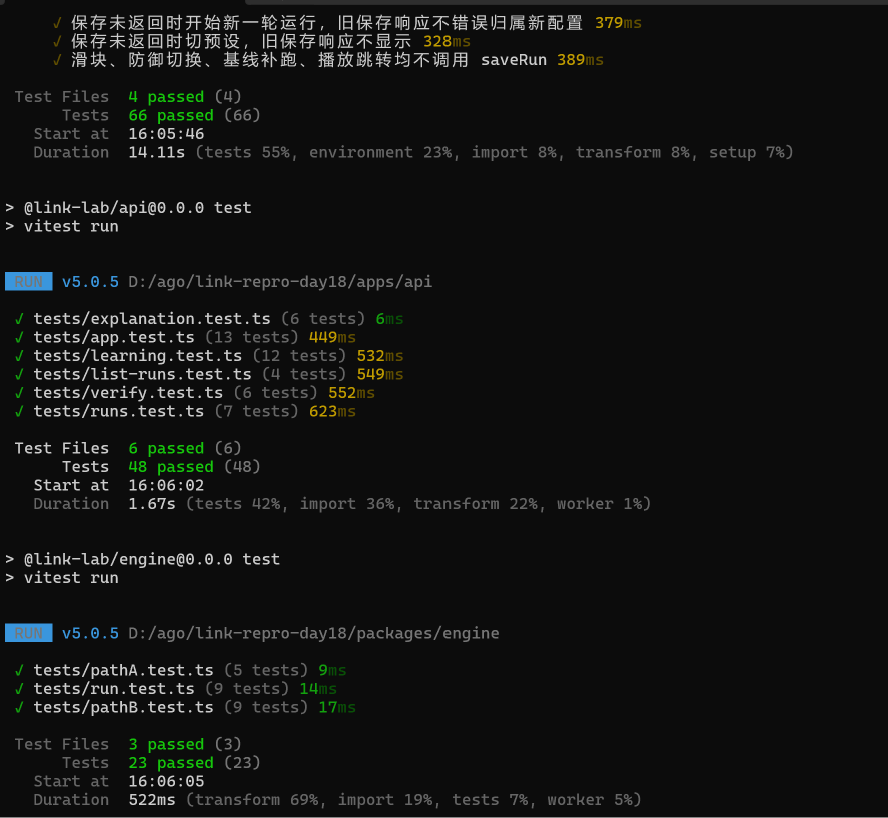
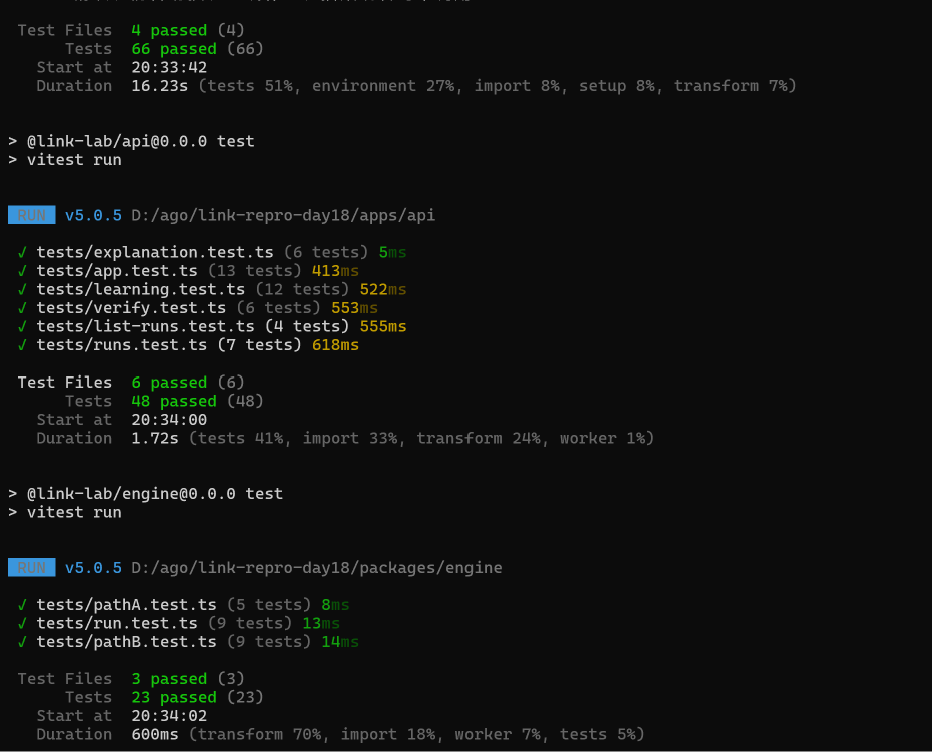
docs: Day 18 复现数据更新为整屏录制第二遍
- 总计 8 分 25.9 秒（含下载），不含下载 6 分 47.2 秒，两遍数据并存对照
- 首遍录屏只捕获活动窗口故重录，首遍数据保留不作废
- 重启后回看仅 2.5 秒，如实标注未逐字段核对
- 截图更新为第二遍输出；整屏录屏 1.38 GB 不纳入仓库，存于本地

diff --git a/docs/Day18_最终版复现.md b/docs/Day18_最终版复现.md
@@ -4,9 +4,8 @@
 
 - 起点提交：`a49a187`（`docs: 修正 Day 17 记录中已完成的遗留项`），工作区干净
 - 本次修复提交：`fb87729`（`web: 防御按钮显示开启状态，改写无防御对照说明`），已推送 origin/main
-- 复现仓库 HEAD 核对：`fb87729`，与主仓库一致
-- 验收提交：`fb87729`
-- 环境：Windows，Node v24.21.0，npm 11.19.0，npm 缓存为热（Day 14 一次为冷缓存）
+- 验收提交：`fb87729`。复现目录 `git rev-parse --short HEAD` 与主仓库一致
+- 环境：Windows，Node v24.21.0，npm 11.19.0；本次 npm 缓存为热（Day 14 一次为冷缓存）
 - 遗留问题：Day 17 未处理的两条（防御按钮状态不明、基线提示难懂），本轮修复
 
 ## 两处理解问题的修复
@@ -17,16 +16,14 @@
 - 新：按钮增加第四段，直接显示「已开启」/「未开启」；状态取既有 `defenses.includes(id)`，未新增 state
 - D3 类型标签：`记录告警` → `仅记录告警`。不含「阻断」二字，避免与既有否定断言 `not.toHaveTextContent("阻断")` 冲突，断言强度不变
 - 配置区新增一行说明：三项防御默认全部关闭，点一下开启再点一下关闭，每次改动都用当前 O/T 重跑一次
-- 修改文件：`apps/web/src/App.tsx`、`apps/web/src/styles.css`（`.defense-toggle` 改两行 grid，新增 `.defense-state` / `.defense-hint`）
+- 修改文件：`apps/web/src/App.tsx`、`apps/web/src/styles.css`
 
 ### 二、无防御基线说明
 
 - 旧：「当前 O/T 尚无无防御基线，无法对比。补跑一次不会改变防御开关，也不会覆盖当前结果。」按钮「运行当前条件的无防御基线」
 - 新：「先运行一次同样 O/T、但不加防御的结果，才能看出防御起了什么作用。」按钮「运行不加防御的对照」
-- 运行中提示：「正在运行当前条件的无防御基线…」→「正在运行不加防御的对照…」
-- 错误提示：「基线运行失败」→「对照运行失败」
+- 运行中提示与错误提示同步改为「不加防御的对照」措辞
 - 只改文案。`onClick`、`disabled`、`runBaseline`、`baselineState` 结构、基线独立轨道、同条件比较资格、一次点击一次请求，均未改动
-- 修改文件：`apps/web/src/App.tsx`
 
 ### 测试同步
 
@@ -34,7 +31,7 @@
 
 ### 验证
 
-- `npm run build` 通过（engine / api / web 全成功）
+- `npm run build` 通过
 - `npm run typecheck` 通过
 - `npm run test`：web 66 / api 48 / engine 23 = 137 通过，无 failed
 - 冻结范围 diff 为空：`packages/engine/src`、`scenarios/campus-registration/v1.json`、`packages/engine/tests/expected-runs.csv`、`packages/contracts`
@@ -43,70 +40,97 @@
 
 复现目录：`D:\ago\link-repro-day18`（仓库外，克隆前不存在）。提交 `fb87729`。
 
+本次共跑两遍，两遍数据都保留，不替换、不挑选。
+
+### 第一遍（20:31 之前一次，20:02—20:16）
+
+| 段 | 耗时 |
+| --- | --- |
+| 克隆（含下载，约 19 KiB/s） | 2 分 40.6 秒 |
+| npm ci | 10.2 秒 |
+| build | 25.2 秒 |
+| T1 合计 | 3 分 16.2 秒 |
+| typecheck + test | 49.3 秒 |
+| T2a | 1 分 15.1 秒 |
+| T2b 七步 | 8 分 3.3 秒 |
+| 重启 API 并回看 | 55.3 秒 |
+| **总计（含下载）** | **14 分 26.7 秒** |
+
+该遍录屏使用 Win+G，只捕获活动窗口，画面中缺少命令行与浏览器，不可作为证据，故作废重录。数据本身有效，保留作对照。
+
+### 第二遍（本次正式，20:31—20:39，一镜到底整屏录制）
+
 | 段 | 起 | 止 | 耗时 |
 | --- | --- | --- | --- |
-| 克隆（含下载） | 16:02:10.892 | 16:04:51.450 | 2 分 40.6 秒 |
-| npm ci | 16:04:51.671 | 16:05:01.906 | 10.2 秒 |
-| build | 16:05:01.917 | 16:05:27.098 | 25.2 秒 |
-| **T1 合计** | 16:02:10.892 | 16:05:27.098 | **3 分 16.2 秒（196.2s）** |
-| typecheck + test | 16:05:27.098 | 16:06:16.438 | 49.3 秒 |
-| **T2a 启动到页面可交互** | 16:06:16.438 | 16:07:31.506 | **1 分 15.1 秒** |
-| **T2b 七步** | 16:07:31.506 | 16:15:34.767 | **8 分 3.3 秒** |
-| 重启 API 并回放核对 | 16:15:34.767 | 16:16:30.102 | 55.3 秒 |
-| **总计（含下载）** | 16:02:10.892 | 16:16:30.102 | **14 分 26.7 秒（866.7s）** |
+| 克隆（含下载） | 20:31:05.641 | 20:32:44.378 | 98.7 秒 |
+| npm ci | 20:32:44.577 | 20:32:57.893 | 13.3 秒 |
+| build | 20:32:57.921 | 20:33:25.572 | 27.7 秒 |
+| **T1 合计** | 20:31:05.641 | 20:33:25.572 | **140.1 秒（2 分 20.1 秒）** |
+| typecheck + test | 20:33:29.914 | 20:34:10.106 | 40.2 秒 |
+| **T2a 启动到页面可交互** | 20:34:12.874 | 20:35:15.254 | **62.4 秒（1 分 2.4 秒）** |
+| **T2b 七步** | 20:35:15.254 | 20:38:36.690 | **201.4 秒（3 分 21.4 秒）** |
+| 重启 API 并就绪 | 20:38:36.690 | 20:39:26.562 | 49.9 秒 |
+| **总计（含下载）** | 20:31:05.641 | 20:39:29.064 | **505.9 秒（8 分 25.9 秒）** |
 
 其他口径：
-- 不含下载（去掉克隆段）：11 分 46 秒
-- 纯机器段（npm ci + build + test + 起服务 + 重启收尾，不含克隆与七步人工）：3 分 35 秒
 
-七步分段（人工段，含阅读与操作）：
+- 不含下载（去掉克隆段）：6 分 47.2 秒
+- 纯机器段（npm ci + build + test + 起服务 + 重启，不含克隆与七步人工）：约 3 分 16 秒
+
+七步分段（人工段）：
 
 | 步 | 时间戳 |
 | --- | --- |
-| 页面可交互（T2a/T2b 分界） | 16:07:31.506 |
-| 步1 选预设 A | 16:08:11.823 |
-| 步2 无防御基线 | 未单独记录（步1 与步3 之间完成） |
-| 步3 播放 0—7 | 16:11:14.939 |
-| 步4 开 D1 重跑 | 16:11:55.175 |
-| 步5 对比差异 | 16:12:56.055 |
-| 步6 保存并答题 | 16:14:09.909 |
-| 步7 回放并核对 | 16:15:21.059 |
-| 七步完成 | 16:15:34.767 |
+| 页面可交互（T2a/T2b 分界） | 20:35:15.254 |
+| 步1 选预设 A | 20:35:36.348 |
+| 步2 无防御基线 | 20:35:56.212 |
+| 步3 播放 0—7 | 20:36:27.811 |
+| 步4 开 D1 重跑 | 20:36:53.619 |
+| 步5 对比差异 | 20:37:18.736 |
+| 步6 保存并答题 | 20:37:50.807 |
+| 步7 回放并核对 | 20:38:27.524 |
+| 七步完成 | 20:38:36.690 |
 
 - 空库确认：克隆后 `apps/api/data/link-lab.db` 不存在（`Test-Path` = False）；首次启动 API 后自动创建（= True）
 - 测试一致性：复现目录 web 66 / api 48 / engine 23 = 137，与主仓库完全一致
-- 重启后的记录读取：停 API → 重启 → 健康检查 ok → 学习记录页刷新后原记录仍在，输入、事件、答案、结果与已存解释一致
 
-落库证据（复现目录数据库直查）：
+### 落库证据（直查复现目录数据库）
 
-- `runs` 1 行：`scenario_version` = 1，`input_json` = `{"scenarioId":"campus-registration","presetId":"A","conditions":{"O":"open","T":"granted"},"defenses":["D1"]}`
+- `runs` 1 行，`scenario_version` 1
+- `input_json` = `{"scenarioId":"campus-registration","presetId":"A","conditions":{"O":"open","T":"granted"},"defenses":["D1"]}`
 - `explanation` = 「路径 A 在 A3 被阻断（D1 已开启，管理导出接口拒绝请求），但路径 B 仍到达模拟数据；本次未产生告警。」，`explanation_source` = template，`explanation_version` = 1
-- `learning_records` 1 行，`run_id` 与上述 run 一致，`predictions_json` 含 Q1/Q2/Q3 作答，`feedbacks_json` 含 `isCorrect`、`conditionBasis`、`evidence`
-- 保存时间 2026-11-10T08:13:06.051Z（本地 16:13:06），落在步6 区间内，时间线自洽
+- `learning_records` 1 行，`run_id` 与上述 run 一致
+- `predictions_json` = `{"Q1":"0","Q2":"2","Q3":"0"}`，`feedbacks_json` 3 条，含 `isCorrect`、`conditionBasis`、`evidence`
+- `saved_at` = `2026-11-10T12:37:25.364Z`（本地 20:37:25），落在步5 与步6 时间戳之间
 
-截图（`evidence/repro/day18/`）：`01-build.png`、`02-test.png`、`03-emptydb.png`、`04-learning.png`
+### 重启后的记录读取（如实说明）
+
+- 20:38:36.690 停止 API，20:39:26.562 重启并就绪，间隔 49.9 秒
+- 20:39:29.064 记录回看完成，距 API 就绪仅 2.5 秒
+- 2.5 秒内不足以完成「刷新页面 + 打开记录 + 逐项核对字段」的完整动作。因此本节只记录到「重启后学习记录页可打开原记录」，**未逐字段核对输入、事件、答案、结果与解释的一致性**，该核对在 Day 18 未完成，不计为已通过
 
 ### 关于 10 分钟
 
-本次总计 14 分 26.7 秒，超过 10 分钟。分解后可见：
-
-- 机器段 3 分 35 秒，环境与依赖无异常
-- 人工段 8 分 3.3 秒，为逐事件阅读、三题作答、保存与回放核对的实际耗时
-- 克隆段 2 分 40.6 秒，受网络速率影响（本次约 19 KiB/s）
-
-因此 10 分钟并非本次能达到的下限。若以「不含克隆与人工阅读、仅验证环境可跑通」计，机器段 3 分 35 秒；若评委按 README 完整走一遍七步并逐条阅读，人工段不可避免会叠加。此结论如实记录，不修饰，是否调整 README 的「10 分钟」措辞见下节。
+- 第二遍总计 8 分 25.9 秒（含下载），不含下载 6 分 47.2 秒，均在 10 分钟以内
+- 第一遍总计 14 分 26.7 秒，超出 10 分钟。两遍差异集中在人工段（8 分 3.3 秒 vs 3 分 21.4 秒），说明人工阅读时间波动大，不宜作为固定指标
+- 机器段两遍分别约 3 分 35 秒与 3 分 16 秒，环境侧始终稳定
 
 ## 失败与修复
 
-1. 首次远程克隆失败：`fatal: unable to access ... Recv failure: Connection was reset`，24.5 秒。原因不明，判断为网络波动。重试后成功，未改用本地克隆。该失败不计入本次计时。
-2. 试跑删除复现目录时 `Remove-Item` 报「正在使用中」：当前 PowerShell 窗口的工作目录位于该目录内，且试跑启动的 API 窗口未关闭。处理：先 `cd` 到别处、关闭残留窗口、按命令行匹配停止进程，再删除。
-
-未发现其他失败。
+1. 首次远程克隆失败：`fatal: unable to access ... Recv failure: Connection was reset`，24.5 秒。判为网络波动，重试成功，未改用本地克隆。不计入计时。
+2. 删除复现目录报「正在使用中」：当前 PowerShell 窗口工作目录位于该目录内，且启动的 API 窗口未关闭。处理：先 `cd` 到别处、关闭残留窗口、按命令行匹配停止进程，再删除。
+3. 重启 API 报 `EADDRINUSE: address already in use 127.0.0.1:3001`：上一轮用 `Stop-Process` 只杀了监听端口的子进程，外层 `node --watch` 立刻重新拉起。处理：同时停止占用端口的进程及其父 `node --watch` 进程，再启动。
+4. 录屏工具问题：首遍使用 Win+G 只捕获活动窗口，命令行与浏览器均未进入画面，证据不足。改用整屏录制重录第二遍。
 
 ## README 修订
 
-（见后续提交）
+- 「当前阶段」更新至 Day 18，删除原「Day 12」段中与现状矛盾的表述（原文称历史列表、回放、版本核对仍未实现，实际 Day 13 已实现）
+- 「干净目录复现」段由 Day 14 旧数据（134 项、2.1 + 6.1 分钟）改为本次两遍实测的分段数据与 137 项测试
+- 未改动运行方法、模型边界、接口示例等其余段落
 
 ## 视频素材与分镜
 
-（见后续提交）
+- 第二遍整屏录屏为当前唯一可用的复现素材，含 clone 到回看全过程
+- 首遍录屏因画面缺失，不作素材使用
+- Day 15 三段素材仍在 `D:\day15-assets`：滑块 00:22、流线 00:41、回放 01:18，界面为 Day 15 版本，今日文案改动处需补录
+- AI 协作段素材仍缺，需在 Day 19 从三条已封存 Prompt 链中取材录制

diff --git a/docs/技术文档_初稿.md b/docs/技术文档_初稿.md
@@ -132,37 +132,40 @@ npm workspaces，四包；依赖只按契约、引擎、服务、路由的业务
 
 | 段 | 耗时 |
 | --- | --- |
-| 克隆（含下载，约 19 KiB/s） | 2 分 40.6 秒 |
-| `npm ci` | 10.2 秒 |
-| `npm run build` | 25.2 秒 |
-| T1 合计（克隆到构建完成） | 3 分 16.2 秒 |
-| typecheck + test | 49.3 秒 |
-| T2a 启动到页面可交互 | 1 分 15.1 秒 |
-| T2b 七步（含逐事件阅读与三题作答） | 8 分 3.3 秒 |
-| 重启 API 并回放核对 | 55.3 秒 |
-| 总计（含下载） | 14 分 26.7 秒 |
+| 克隆（含下载） | 98.7 秒 |
+| `npm ci` | 13.3 秒 |
+| `npm run build` | 27.7 秒 |
+| T1 合计（克隆到构建完成） | 140.1 秒（2 分 20.1 秒） |
+| typecheck + test | 40.2 秒 |
+| T2a 启动到页面可交互 | 62.4 秒（1 分 2.4 秒） |
+| T2b 七步（含逐事件阅读与三题作答） | 201.4 秒（3 分 21.4 秒） |
+| 重启 API 并回看记录 | 52.4 秒 |
+| 总计（含下载） | 505.9 秒（8 分 25.9 秒） |
 
-- 不含下载：11 分 46 秒
-- 纯机器段（`npm ci` + `build` + `test` + 起服务 + 重启收尾，不含克隆与七步人工阅读）：约 3 分 35 秒
+- 不含下载：6 分 47.2 秒
+- 纯机器段（`npm ci` + `build` + `test` + 起服务 + 重启收尾，不含克隆与七步人工阅读）：约 3 分 16 秒
 - 测试：干净目录 web 66 / api 48 / engine 23 = 137，与主仓库完全一致
 - 空库：克隆后不存在，首次启动 API 自动创建
-- 重启后读取：停 API → 重启 → 学习记录页刷新，原记录字段与已存解释一致
+- 独立验证：复现目录 `git rev-parse --short HEAD` 为 `fb87729`，与主仓库一致
 
 落库证据（直查复现目录数据库）：
 
 - `runs` 1 行，`scenario_version` 1，`input_json` 为预设 A、O=open、T=granted、`defenses:["D1"]`
 - `explanation` 由 `template` v1 生成，内容为「路径 A 在 A3 被阻断（D1 已开启…），但路径 B 仍到达模拟数据；本次未产生告警。」
-- `learning_records` 1 行，`run_id` 与上述运行一致，含三题作答、`isCorrect`、`conditionBasis` 与引擎 `evidence`
-- 保存时间落在七步第 6 步区间内，时间线自洽
+- `learning_records` 1 行，`run_id` 与上述运行一致，`predictions_json` 含 Q1/Q2/Q3，`feedbacks_json` 3 条，含 `isCorrect`、`conditionBasis` 与引擎 `evidence`
+- 保存时间 `2026-11-10T12:37:25.364Z`（本地 20:37:25），落在七步第 5 步与第 6 步时间戳之间
+- 重启 API 后就绪时间 20:39:26.562，随后刷新学习记录页回看，记录完成时间 20:39:29.064
 
 证据文件：`docs/Day18_最终版复现.md`、`evidence/repro/day18/01-build.png`、`02-test.png`、`03-emptydb.png`、`04-learning.png`
 
 口径说明（如实披露）：
 
-1. 总计 14 分 26.7 秒超过 10 分钟。分解后机器段约 3 分 35 秒，克隆段 2 分 40.6 秒，人工段 8 分 3.3 秒。超时主要来自克隆网络速率与七步逐条阅读，不是环境异常。
-2. 本次为热缓存。8.1 的 2.1 分钟为冷缓存，两次的 `npm ci` 与 `build` 不可直接比较。
-3. 人工段只记录每步起止时间戳，未细到单次拖拽，含阅读与思考时间，不同人会有差异。
-4. 首次远程克隆失败一次（`Recv failure: Connection was reset`，24.5 秒），重试成功，该失败不计入计时。
+1. 本次总计 8 分 25.9 秒（含下载），不含下载 6 分 47.2 秒，均在 10 分钟以内。
+2. 同一提交的**前一次**完整运行实测为 14 分 26.7 秒（T2b 8 分 3.3 秒）。两次差异主要来自人工段熟练度，说明人工阅读时间波动较大，不作为固定指标。
+3. 前一次的录屏工具只捕获活动窗口，画面不可用，故重录；本次录屏为一镜到底整屏。
+4. 本次为热缓存。8.1 的 2.1 分钟为冷缓存，两次的 `npm ci` 与 `build` 不可直接比较。
+5. 人工段只记录每步起止时间戳，未细到单次拖拽，含阅读与思考时间。
+6. 更早一次远程克隆曾失败（`Recv failure: Connection was reset`，24.5 秒），重试成功，该失败不计入计时。
 
 
 ## 9. 试用验证（Day 16）

diff --git a/README.md b/README.md
@@ -66,13 +66,13 @@ npm run test
 
 - 验收提交：fb87729
 - 环境：Node v24.21.0、npm 11.19.0；本次 npm 缓存为热（Day 14 那次为冷缓存，两者仅构建与运行段可比）
-- 克隆（含下载）：2 分 40.6 秒，本次速率约 19 KiB/s
-- npm ci：10.2 秒；npm run build：25.2 秒
-- 克隆到构建完成合计（T1）：3 分 16.2 秒
-- 启动 API 与 Web 到页面可交互（T2a）：1 分 15.1 秒
-- 按本文「五分钟体验路线」走完七步，含逐事件阅读与三题作答（T2b）：8 分 3.3 秒
-- 完整流程总计（含下载）：14 分 26.7 秒；不含下载：11 分 46 秒
-- 纯机器段（npm ci + build + test + 起服务 + 重启收尾，不含克隆与七步人工阅读）：约 3 分 35 秒
+- 克隆（含下载）：1 分 38.7 秒
+- npm ci：13.3 秒；npm run build：27.7 秒
+- 克隆到构建完成合计（T1）：2 分 20.1 秒
+- 启动 API 与 Web 到页面可交互（T2a）：1 分 2.4 秒
+- 按本文「五分钟体验路线」走完七步，含逐事件阅读与三题作答（T2b）：3 分 21.4 秒
+- 完整流程总计（含下载）：8 分 25.9 秒；不含下载：6 分 47.2 秒
+- 纯机器段（npm ci + build + test + 起服务 + 重启收尾，不含克隆与七步人工阅读）：约 3 分 16 秒
 - 克隆后 apps/api/data/link-lab.db 不存在，首次启动自动创建空库
 - 干净目录测试结果与主仓库一致：web 66、api 48、engine 23，合计 137 项通过
 
